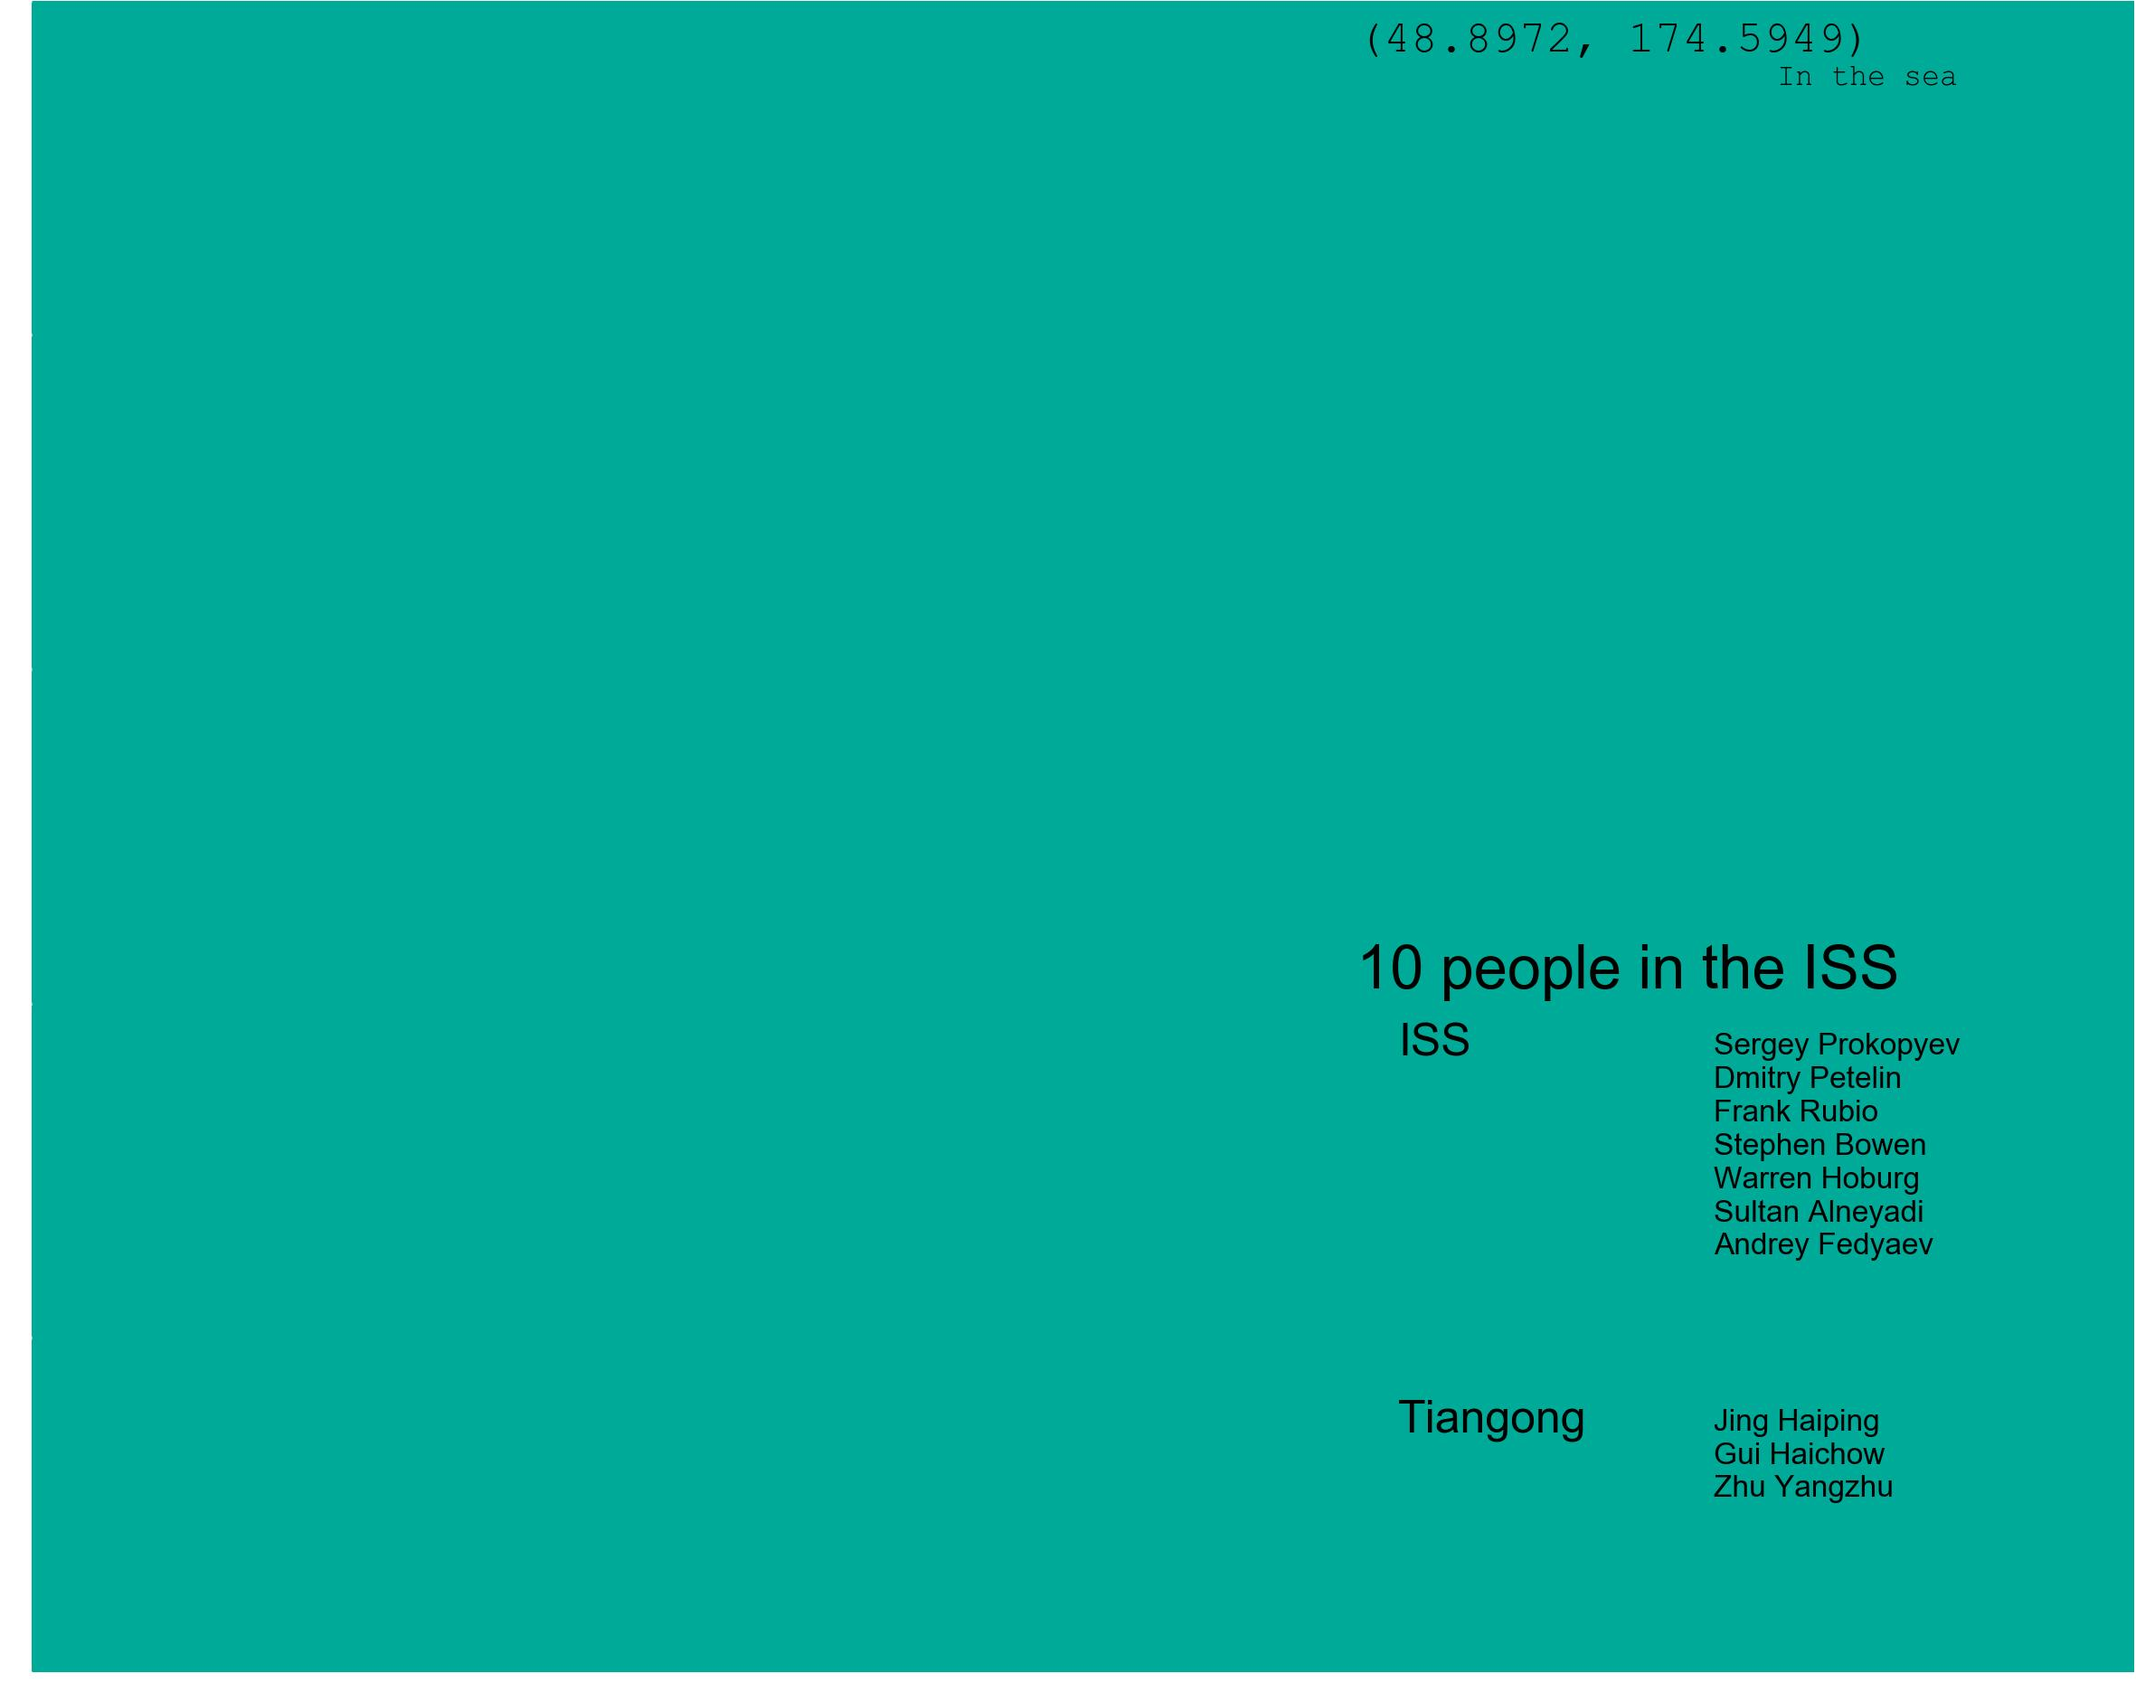
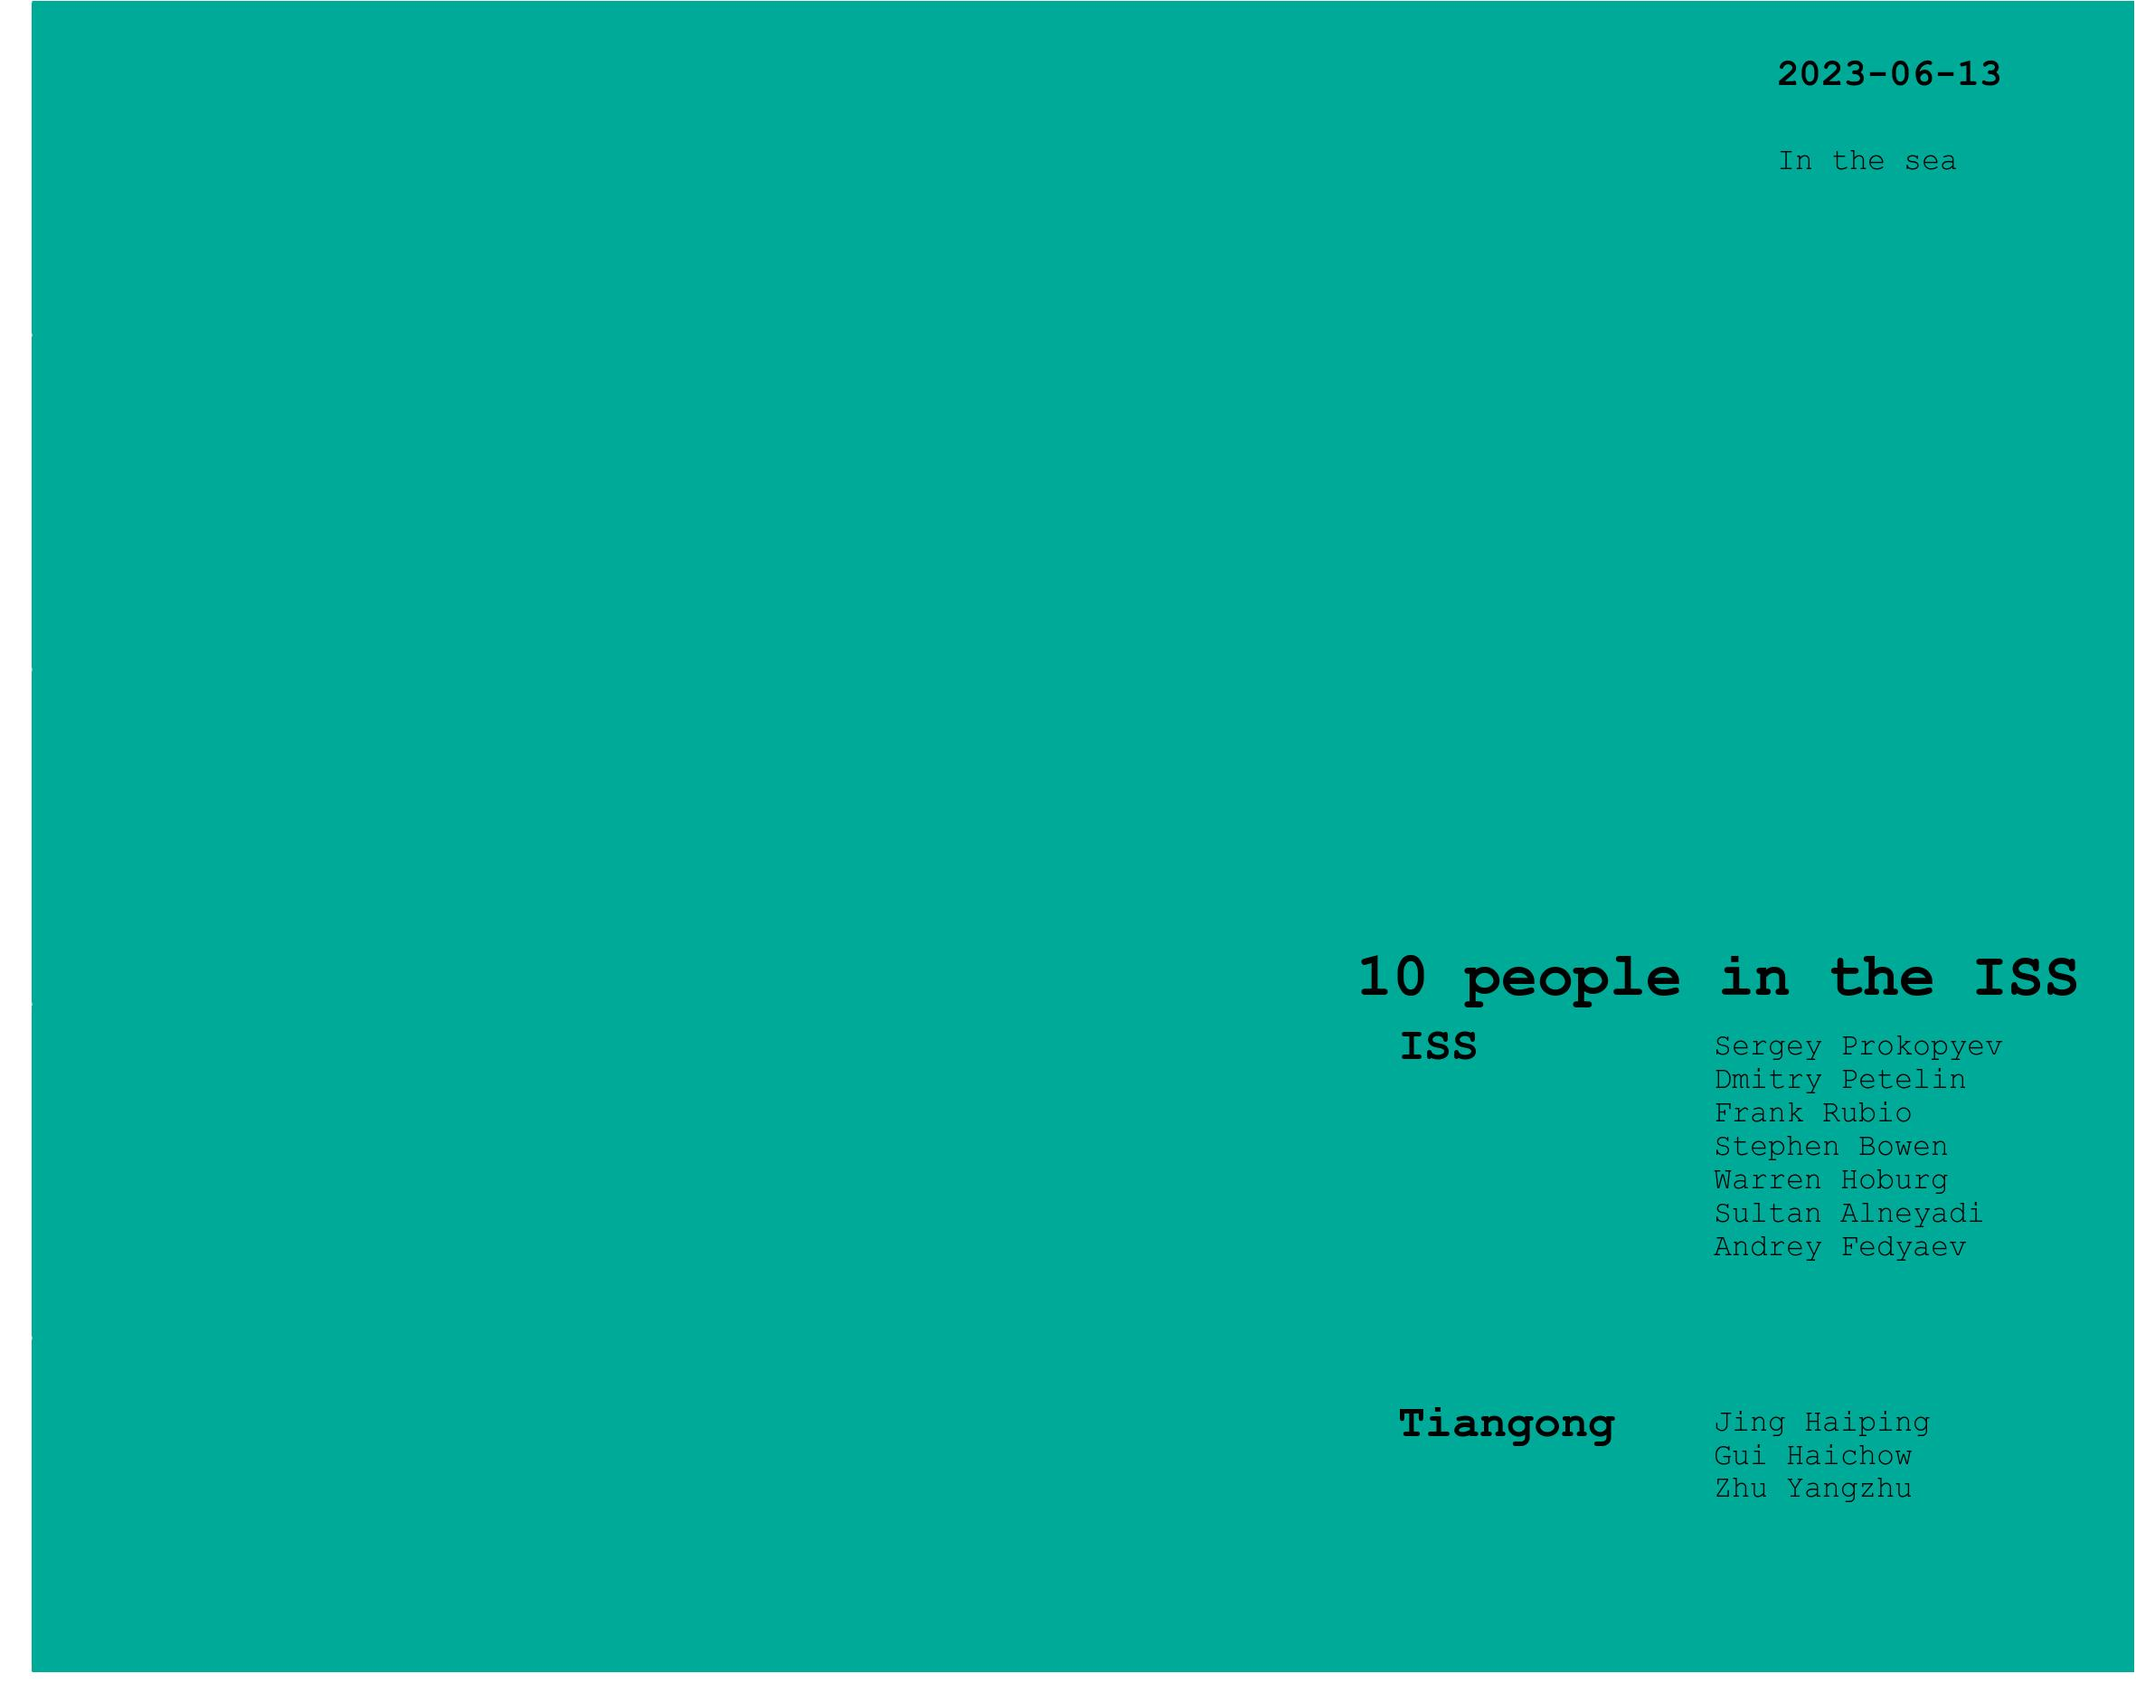
ft. styling the map

diff --git a/scripts/iss_tracker.py b/scripts/iss_tracker.py
@@ -7,7 +7,10 @@ from prettymaps import *
 from matplotlib import pyplot as plt
 from matplotlib import font_manager as fm
 
+from datetime import date
+
 from geopy.geocoders import Nominatim
+from geopy.point import Point
 import warnings
 warnings.filterwarnings('ignore', category=UserWarning, module='matplotlib')
 
@@ -60,23 +63,27 @@ def checkOcean(lat, lon):
 
 def drawSea(location, people, craft_dict):
     print(f"{location} is in the ocean")
+    point = Point(location[0], location[1])
+    geolocator = Nominatim(user_agent="iss")
+    location_n = geolocator.reverse(point, exactly_one=True)
+    
+    plt.title(f"Current location of ISS\n{location_n}", fontsize=10, fontweight=700, fontfamily='monospace')
 
     fig, ax = plt.subplots(figsize=(10, 8))
     ax.set_facecolor('#00aa99')
     # print coordinates at the bottom left
-    ax.text(0.63, 0.97, f"({float(location[0])}, {float(location[1])})",
-            fontfamily='monospace', fontsize=12)
-    ax.text(0.83, 0.95, "In the sea", fontfamily='monospace', fontsize=8)
+    ax.text(0.83, 0.95, f"{date.today()}", fontsize=10, fontweight=700, fontfamily='monospace')
+    ax.text(0.83, 0.90, "In the sea", fontfamily='monospace', fontsize=8)
     ax.tick_params(axis='both', which='both', colors='white', labelsize=6)
 
     y_start = 0.37
     # print the number of people and the names of the people in the bottom left
-    ax.text(0.63, y_start, f"{len(people)} people in the ISS\n", fontsize=16)
+    ax.text(0.63, y_start, f"{len(people)} people in the ISS\n", fontsize=16, fontweight=700, fontfamily='monospace')
     for craft, passengers in craft_dict.items():
-        ax.text(0.65, y_start - 0.03, f'{craft}\n', fontsize=12, fontweight=700)
+        ax.text(0.65, y_start - 0.03, f'{craft}\n', fontsize=12, fontweight=700, fontfamily='monospace')
         for i, passenger in enumerate(passengers):
             text_y = y_start - (0.02 * i)
-            ax.text(0.80, text_y, passenger, fontsize=8)
+            ax.text(0.80, text_y, passenger, fontsize=8, fontfamily='monospace')
         ax.tick_params(axis='both', which='both', colors='white', labelsize=.1)
         y_start -= (0.1 + 0.05 * len(passengers))/2
     
@@ -98,7 +105,7 @@ def drawSea(location, people, craft_dict):
     return #No need to return anything !!!
 
 def drawLand(location, radius, plot_layers, plot_style, people, craft_dict):
-    fig, ax = plt.subplots(figsize=(8, 6))#
+    fig, ax = plt.subplots(figsize=(6, 10))#
     ax.set_axis_off()
     map = plot(
         query = (float(location[0]), float(location[1])),
@@ -108,15 +115,18 @@ def drawLand(location, radius, plot_layers, plot_style, people, craft_dict):
         ax=ax,
         credit=False,
         circle=True,
+        # circle_params=circle_params,
         dilate=True,
-        scale_x=.25,
-        scale_y=.25,
+        scale_x=.75,
+        scale_y=.75,
     )
+
+    ax.set_aspect('equal','box')
 
     geolocator = Nominatim(user_agent="iss")
     location_n = geolocator.reverse(str(location[0]) + ", " + str(location[1]))
     
-    plt.title(location_n)
+    plt.title(f"Current location of ISS\n{location_n}", fontsize=10, fontweight=700, fontfamily='monospace')
     # plt.savefig('output.jpg', dpi=100, pad_inches=0) #papertype='letter',bbox_inches='tight',
     plt.savefig('output.jpg', 
                 dpi=15,
@@ -129,7 +139,7 @@ def drawLand(location, radius, plot_layers, plot_style, people, craft_dict):
 
     return #fig, ax No need to return anything !!!
 
-def drawMapWithPrettymaps(location, radius = 15000):
+def drawMapWithPrettymaps(location, radius = 30000):
     '''Returns a map of the location with prettymaps or Just a blue map and the coordinates if the location is in the ocean'''
     if location is None:
         raise ValueError("Location cannot be None")
@@ -162,57 +172,61 @@ def drawMapWithPrettymaps(location, radius = 15000):
             'width': {
                 'motorway': 5,
                 'trunk': 4,
-                'primary': 3.5,
-                'secondary': 3,
-                'tertiary': 2.5,
-                'residential': 2,
+                'primary': 3.7,
+                'secondary': 3.5,
+                'tertiary': 3.2,
+                'residential': 3,
                 'service': 1.5,
-                'pedestrian': 1,
-                'footway': 1,
+                'pedestrian': 1.2,
+                'footway': 1.2,
             }
         }
         }
     plot_style = {
-        'padding': 0.01,
-        'perimeter': {'fc': '#F2F4CB', 'ec': '#2F3737', 'hatch': 'ooo...','lw': 4, 'zorder': 7},
+        # 'padding': 0.1,
+        'perimeter': {'fc': '#F2F4CB', 
+                      'ec': '#2F3737', 
+                      'hatch': 'ooo...',
+                      'lw': 1, 
+                      'zorder': 7},
         "background": {
             "fc": "#F2F4CB",
             "ec": "#dadbc1",
-            "hatch": "ooo...",
+            "hatch": "o.o.o.",
         },
         "perimeter": {
             "fc": "#F2F4CB",
             "ec": "#dadbc1",
-            "lw": 0,
-            "hatch": "ooo...",
+            "lw": 0.8,
+            "hatch": "o..o..",
         },
         "green": {
             "fc": "#D0F1BF",
             "ec": "#2F3737",
-            "lw": 1,
+            "lw": 1.6,
         },
         "forest": {
             "fc": "#64B96A",
             "ec": "#2F3737",
-            "lw": 1,
+            "lw": 1.6,
         },
         "water": {
             "fc": "#a1e3ff",
             "ec": "#2F3737",
             "hatch": "ooo...",
             "hatch_c": "#85c9e6",
-            "lw": 1,
+            "lw": 1.6,
         },
         "parking": {
             "fc": "#F2F4CB",
             "ec": "#2F3737",
-            "lw": 1,
+            "lw": 1.6,
         },
         "streets": {
             "fc": "#2F3737",
             "ec": "#475657",
             "alpha": 1,
-            "lw": 0,
+            "lw": 0.8,
         },
         "building": {
             "palette": [
@@ -221,7 +235,7 @@ def drawMapWithPrettymaps(location, radius = 15000):
                 "#C5283D"
             ],
             "ec": "#2F3737",
-            "lw": 0.5,
+            "lw": 1.2,
         }}
 
         # Check if the location is in the ocean
